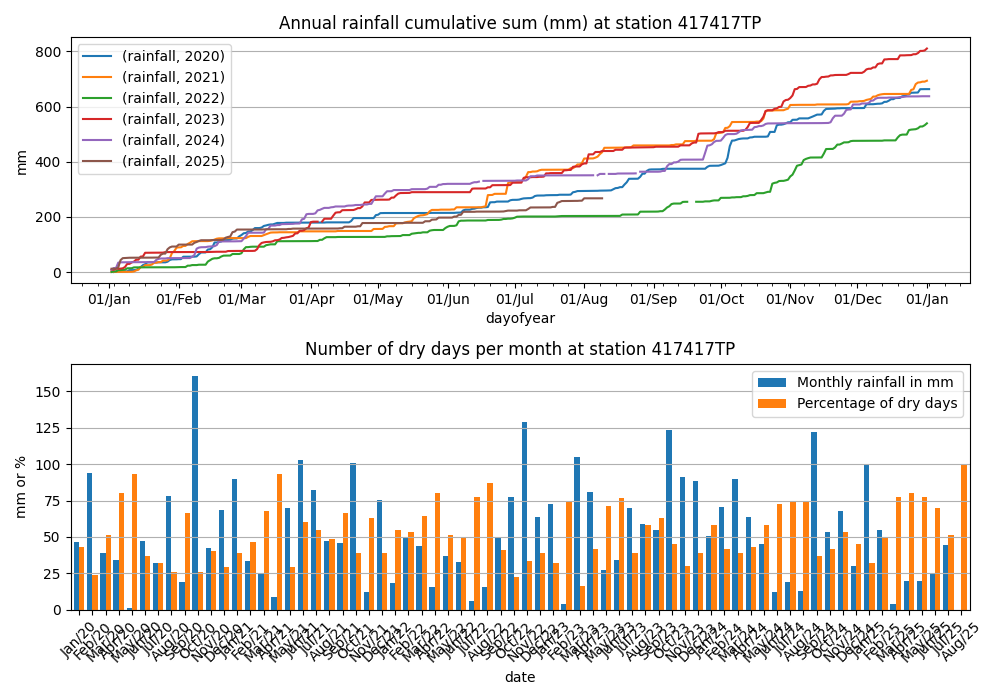
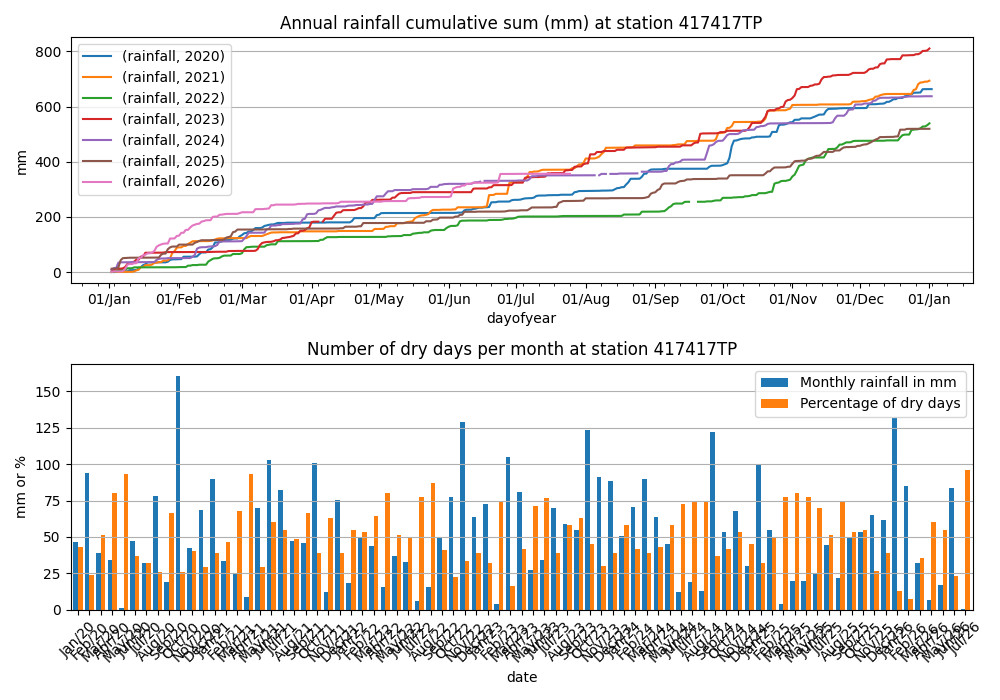
update data and change frequency alias from legacy E to new ME (month end)

diff --git a/historicaldata.py b/historicaldata.py
@@ -154,10 +154,10 @@ def annualcumover(df,title,ax):
 title="Annual rainfall cumulative sum (mm) at station {}".format(station)
 annualcumover(df,title,ax[0])
 
-# rain amount and dry days per month
+# rain amount and dry days per month: ME is the Month End frequence grouper.
 title="Number of dry days per month at station {}".format(station)
-#dfm=df.groupby(pd.Grouper(freq='M')).agg((('total','sum'),('drydays',lambda x: (x==0).sum())))
-dfm=df.groupby(pd.Grouper(freq='M')).agg((('total','sum'),('drydays',lambda x: 100.0*(x==0).sum()/x.count())))
+#dfm=df.groupby(pd.Grouper(freq='ME')).agg((('total','sum'),('drydays',lambda x: (x==0).sum())))
+dfm=df.groupby(pd.Grouper(freq='ME')).agg((('total','sum'),('drydays',lambda x: 100.0*(x==0).sum()/x.count())))
 #ax[1].bar(dfm.index,dfm.rainfall.drydays)
 dfm.index=dfm.index.strftime('%b/%y')
 print(dfm)
